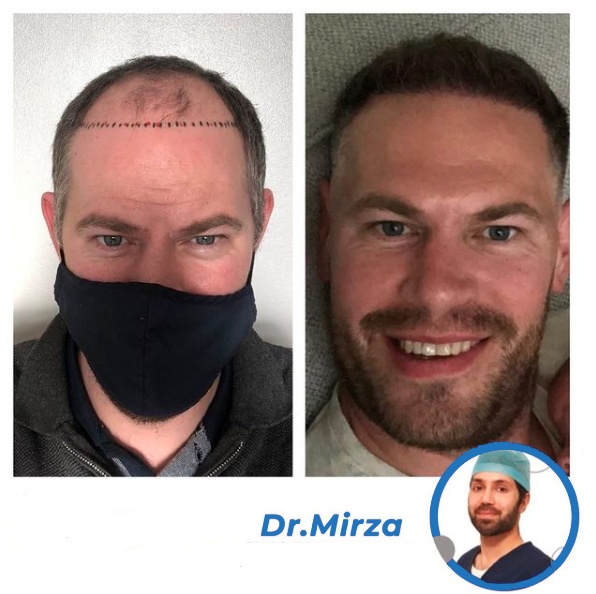
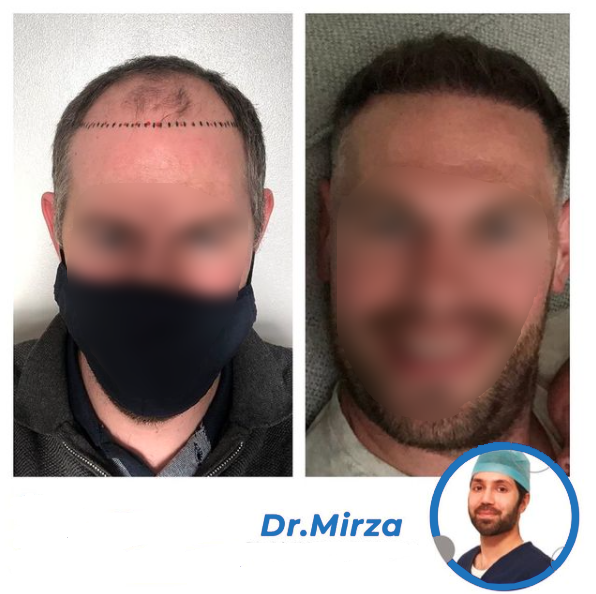
hiding faces

diff --git a/index.html b/index.html
@@ -198,24 +198,6 @@
                             </div>
                             <div class="col-sm-6 col-md-4 my-2">
                                 <div class="card w-100 h-100">
-                                    <img src="./alosert/alosert4.jpg" class="card-img-top" alt="...">
-                                    <div class="card-body border-top">
-                                        <p class="card-text">11 Months post FUE Hair Transplant carried out by Dr
-                                            Alosert and his team</p>
-                                    </div>
-                                </div>
-                            </div>
-                            <div class="col-sm-6 col-md-4 my-2">
-                                <div class="card w-100 h-100">
-                                    <img src="./alosert/alosert5.png" class="card-img-top" alt="...">
-                                    <div class="card-body border-top">
-                                        <p class="card-text">7 Months post FUE Hair Transplant carried out by Dr Alosert
-                                            and his team</p>
-                                    </div>
-                                </div>
-                            </div>
-                            <div class="col-sm-6 col-md-4 my-2">
-                                <div class="card w-100 h-100">
                                     <img src="./alosert/alosert7.png" class="card-img-top" alt="...">
                                     <div class="card-body border-top">
                                         <p class="card-text">6 Months post Afro FUE Hair Transplant carried out by Dr
@@ -408,15 +390,6 @@
                             </div>
                             <div class="col-sm-6 col-md-4 my-2">
                                 <div class="card w-100 h-100">
-                                    <img src="./munir/munir6.png" class="card-img-top" alt="...">
-                                    <div class="card-body border-top">
-                                        <p class="card-text">8 Months post FUE Hair Transplant carried out by Dr Munir
-                                            and his team</p>
-                                    </div>
-                                </div>
-                            </div>
-                            <div class="col-sm-6 col-md-4 my-2">
-                                <div class="card w-100 h-100">
                                     <img src="./munir/munir7.png" class="card-img-top" alt="...">
                                     <div class="card-body border-top">
                                         <p class="card-text">6 Months post FUE Hair Transplant carried out by Dr Munir
@@ -453,36 +426,9 @@
                             </div>
                             <div class="col-sm-6 col-md-4 my-2">
                                 <div class="card w-100 h-100">
-                                    <img src="./munir/munir27.jpg" class="card-img-top" alt="...">
-                                    <div class="card-body border-top">
-                                        <p class="card-text">6 Months post FUE Hair Transplant carried out by Dr Munir
-                                            and his team</p>
-                                    </div>
-                                </div>
-                            </div>
-                            <div class="col-sm-6 col-md-4 my-2">
-                                <div class="card w-100 h-100">
-                                    <img src="./munir/munir28.jpg" class="card-img-top" alt="...">
-                                    <div class="card-body border-top">
-                                        <p class="card-text">7 Months post FUE Hair Transplant carried out by Dr Munir
-                                            and his team</p>
-                                    </div>
-                                </div>
-                            </div>
-                            <div class="col-sm-6 col-md-4 my-2">
-                                <div class="card w-100 h-100">
                                     <img src="./munir/munir30.jpg" class="card-img-top" alt="...">
                                     <div class="card-body border-top">
                                         <p class="card-text">12 Months post FUE Hair Transplant carried out by Dr Munir
-                                            and his team</p>
-                                    </div>
-                                </div>
-                            </div>
-                            <div class="col-sm-6 col-md-4 my-2">
-                                <div class="card w-100 h-100">
-                                    <img src="./munir/munir32.jpg" class="card-img-top" alt="...">
-                                    <div class="card-body border-top">
-                                        <p class="card-text">6 Months post FUE Hair Transplant carried out by Dr Munir
                                             and his team</p>
                                     </div>
                                 </div>
@@ -510,6 +456,7 @@
                     <div class="tab-pane fade px-3" id="munir-beard" role="tabpanel"
                         aria-labelledby="pills-profile-tab">
                         <div class="row">
+                            <!--
                             <div class="col-sm-6 col-md-4 my-2">
                                 <div class="card w-100 h-100">
                                     <img src="./munir/munir5.png" class="card-img-top" alt="...">
@@ -555,6 +502,7 @@
                                     </div>
                                 </div>
                             </div>
+                            -->
                             <div class="col-sm-6 col-md-4 my-2">
                                 <div class="card w-100 h-100">
                                     <img src="./munir/munir36.jpg" class="card-img-top" alt="...">
@@ -564,6 +512,7 @@
                                     </div>
                                 </div>
                             </div>
+                            <!--
                             <div class="col-sm-6 col-md-4 my-2">
                                 <div class="card w-100 h-100">
                                     <img src="./munir/munir39.jpg" class="card-img-top" alt="...">
@@ -582,6 +531,7 @@
                                     </div>
                                 </div>
                             </div>
+                            -->
                         </div>
                     </div>
                     <div class="tab-pane fade px-3" id="munir-eyebrow" role="tabpanel"
@@ -665,7 +615,7 @@
                             </div>
                             <div class="col-sm-6 col-md-4 my-2">
                                 <div class="card w-100 h-100">
-                                    <img src="./sami/sami2.png" class="card-img-top" alt="...">
+                                    <img src="./sami/sami18.png" class="card-img-top" alt="...">
                                     <div class="card-body border-top">
                                         <p class="card-text">6 Months post FUE Hair Transplant carried out by Dr Sami
                                             and his team</p>
@@ -701,15 +651,6 @@
                             </div>
                             <div class="col-sm-6 col-md-4 my-2">
                                 <div class="card w-100 h-100">
-                                    <img src="./sami/sami8.png" class="card-img-top" alt="...">
-                                    <div class="card-body border-top">
-                                        <p class="card-text">6 Months post FUE Hair Transplant carried out by Dr Sami
-                                            and his team</p>
-                                    </div>
-                                </div>
-                            </div>
-                            <div class="col-sm-6 col-md-4 my-2">
-                                <div class="card w-100 h-100">
                                     <img src="./sami/sami9.png" class="card-img-top" alt="...">
                                     <div class="card-body border-top">
                                         <p class="card-text">10 Months post FUE Hair Transplant carried out by Dr Sami
@@ -728,7 +669,7 @@
                             </div>
                             <div class="col-sm-6 col-md-4 my-2">
                                 <div class="card w-100 h-100">
-                                    <img src="./sami/sami11.jpg" class="card-img-top" alt="...">
+                                    <img src="./sami/sami11.png" class="card-img-top" alt="...">
                                     <div class="card-body border-top">
                                         <p class="card-text">7 Months post FUE Hair Transplant carried out by Dr Sami
                                             and his team</p>
@@ -737,70 +678,7 @@
                             </div>
                             <div class="col-sm-6 col-md-4 my-2">
                                 <div class="card w-100 h-100">
-                                    <img src="./sami/sami12.jpg" class="card-img-top" alt="...">
-                                    <div class="card-body border-top">
-                                        <p class="card-text">6 Months post FUE Hair Transplant carried out by Dr Sami
-                                            and his team</p>
-                                    </div>
-                                </div>
-                            </div>
-                            <div class="col-sm-6 col-md-4 my-2">
-                                <div class="card w-100 h-100">
-                                    <img src="./sami/sami13.jpg" class="card-img-top" alt="...">
-                                    <div class="card-body border-top">
-                                        <p class="card-text">6 Months post FUE Hair Transplant carried out by Dr Sami
-                                            and his team</p>
-                                    </div>
-                                </div>
-                            </div>
-                            <div class="col-sm-6 col-md-4 my-2">
-                                <div class="card w-100 h-100">
                                     <img src="./sami/sami14.jpg" class="card-img-top" alt="...">
-                                    <div class="card-body border-top">
-                                        <p class="card-text">6 Months post FUE Hair Transplant carried out by Dr Sami
-                                            and his team</p>
-                                    </div>
-                                </div>
-                            </div>
-                            <div class="col-sm-6 col-md-4 my-2">
-                                <div class="card w-100 h-100">
-                                    <img src="./sami/sami15.jpg" class="card-img-top" alt="...">
-                                    <div class="card-body border-top">
-                                        <p class="card-text">5 Months post FUE Hair Transplant carried out by Dr Sami
-                                            and his team</p>
-                                    </div>
-                                </div>
-                            </div>
-                            <div class="col-sm-6 col-md-4 my-2">
-                                <div class="card w-100 h-100">
-                                    <img src="./sami/sami16.jpg" class="card-img-top" alt="...">
-                                    <div class="card-body border-top">
-                                        <p class="card-text">12 Months post FUE Hair Transplant carried out by Dr Sami
-                                            and his team</p>
-                                    </div>
-                                </div>
-                            </div>
-                            <div class="col-sm-6 col-md-4 my-2">
-                                <div class="card w-100 h-100">
-                                    <img src="./sami/sami17.jpg" class="card-img-top" alt="...">
-                                    <div class="card-body border-top">
-                                        <p class="card-text">6 Months post FUE Hair Transplant carried out by Dr Sami
-                                            and his team</p>
-                                    </div>
-                                </div>
-                            </div>
-                            <div class="col-sm-6 col-md-4 my-2">
-                                <div class="card w-100 h-100">
-                                    <img src="./sami/sami18.jpg" class="card-img-top" alt="...">
-                                    <div class="card-body border-top">
-                                        <p class="card-text">6 Months post FUE Hair Transplant carried out by Dr Sami
-                                            and his team</p>
-                                    </div>
-                                </div>
-                            </div>
-                            <div class="col-sm-6 col-md-4 my-2">
-                                <div class="card w-100 h-100">
-                                    <img src="./sami/sami19.jpg" class="card-img-top" alt="...">
                                     <div class="card-body border-top">
                                         <p class="card-text">6 Months post FUE Hair Transplant carried out by Dr Sami
                                             and his team</p>
@@ -885,7 +763,7 @@
                             </div>
                             <div class="col-sm-6 col-md-4 my-2">
                                 <div class="card w-100 h-100">
-                                    <img src="./shuaib/shuaib4.jpg" class="card-img-top" alt="...">
+                                    <img src="./shuaib/shuaib4.png" class="card-img-top" alt="...">
                                     <div class="card-body border-top">
                                         <p class="card-text">11 Months post FUE Hair Transplant carried out by Dr Shuaib
                                             and his team</p>
@@ -894,7 +772,7 @@
                             </div>
                             <div class="col-sm-6 col-md-4 my-2">
                                 <div class="card w-100 h-100">
-                                    <img src="./shuaib/shuaib5.jpg" class="card-img-top" alt="...">
+                                    <img src="./shuaib/shuaib5.png" class="card-img-top" alt="...">
                                     <div class="card-body border-top">
                                         <p class="card-text">12 Months post FUE Hair Transplant carried out by Dr Shuaib
                                             and his team</p>
@@ -912,7 +790,7 @@
                             </div>
                             <div class="col-sm-6 col-md-4 my-2">
                                 <div class="card w-100 h-100">
-                                    <img src="./shuaib/shuaib7.jpg" class="card-img-top" alt="...">
+                                    <img src="./shuaib/shuaib7.png" class="card-img-top" alt="...">
                                     <div class="card-body border-top">
                                         <p class="card-text">8 Months post FUE Hair Transplant carried out by Dr Shuaib
                                             and his team</p>
@@ -921,36 +799,9 @@
                             </div>
                             <div class="col-sm-6 col-md-4 my-2">
                                 <div class="card w-100 h-100">
-                                    <img src="./shuaib/shuaib8.jpg" class="card-img-top" alt="...">
-                                    <div class="card-body border-top">
-                                        <p class="card-text">6 Months post FUE Hair Transplant carried out by Dr Shuaib
-                                            and his team</p>
-                                    </div>
-                                </div>
-                            </div>
-                            <div class="col-sm-6 col-md-4 my-2">
-                                <div class="card w-100 h-100">
-                                    <img src="./shuaib/shuaib9.jpg" class="card-img-top" alt="...">
-                                    <div class="card-body border-top">
-                                        <p class="card-text">6 Months post FUE Hair Transplant carried out by Dr Shuaib
-                                            and his team</p>
-                                    </div>
-                                </div>
-                            </div>
-                            <div class="col-sm-6 col-md-4 my-2">
-                                <div class="card w-100 h-100">
-                                    <img src="./shuaib/shuaib10.jpg" class="card-img-top" alt="...">
+                                    <img src="./shuaib/shuaib10.png" class="card-img-top" alt="...">
                                     <div class="card-body border-top">
                                         <p class="card-text">7 Months post FUE Hair Transplant carried out by Dr Shuaib
-                                            and his team</p>
-                                    </div>
-                                </div>
-                            </div>
-                            <div class="col-sm-6 col-md-4 my-2">
-                                <div class="card w-100 h-100">
-                                    <img src="./shuaib/shuaib12.jpg" class="card-img-top" alt="...">
-                                    <div class="card-body border-top">
-                                        <p class="card-text">8 Months post FUE Hair Transplant carried out by Dr Shuaib
                                             and his team</p>
                                     </div>
                                 </div>
